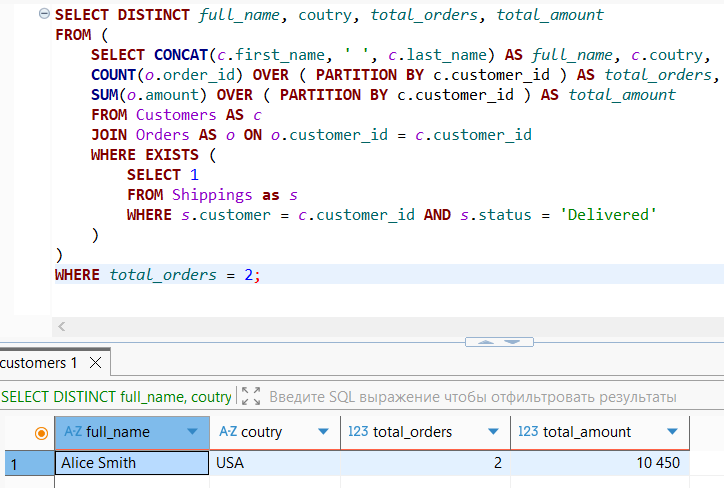
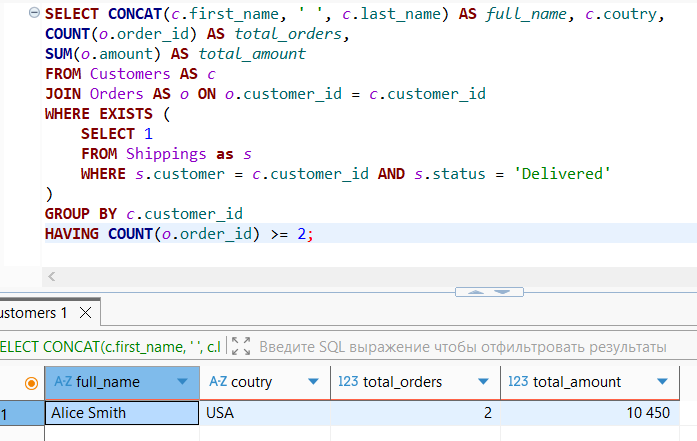
Fix: corrected and simplified the 7th sql query

diff --git a/queries.md b/queries.md
@@ -153,32 +153,20 @@ FROM Orders;
 
 #### Запрос ####
 ```sql
-SELECT DISTINCT full_name, coutry, total_orders, total_amount
-FROM (
-    SELECT CONCAT(c.first_name, ' ', c.last_name) AS full_name, c.coutry,
-    COUNT(o.order_id) OVER ( PARTITION BY c.customer_id ) AS total_orders,
-    SUM(o.amount) OVER ( PARTITION BY c.customer_id ) AS total_amount
-    FROM Customers AS c
-    JOIN Orders AS o ON o.customer_id = c.customer_id
-    WHERE EXISTS (
-        SELECT 1
-        FROM Shippings as s
-        WHERE s.customer = c.customer_id AND s.status = 'Delivered'
-    )
+SELECT CONCAT(c.first_name, ' ', c.last_name) AS full_name, c.coutry,
+COUNT(o.order_id) AS total_orders,
+SUM(o.amount) AS total_amount
+FROM Customers AS c
+JOIN Orders AS o ON o.customer_id = c.customer_id
+WHERE EXISTS (
+    SELECT 1
+    FROM Shippings as s
+    WHERE s.customer = c.customer_id AND s.status = 'Delivered'
 )
-WHERE total_orders = 2;
+GROUP BY c.customer_id 
+HAVING total_orders >= 2;
 ```
 
-#### Пояснения ####
-1\. Условия
-
-Поскольку у нас есть условие по полю, полученному через aggregate function (`total_orders`), к которому мы не можем обратиться обычным способом (такое поле отсутствует в таблице, взятой из FROM), то обернем полученную через SELECT таблицу как subquery, которую возьмем через FROM (теперь у нас есть доступ к этому полю).
-
-Для второго условия нам потребуется взять отдельную таблицу из Shippings и проверить вхождение данных из исходного subquery через *EXISTS*.
-
-2\. Поле `full_name` получим при помощи склеивания строк (concatenate) *first_name* и *last_name* (между ними дополнительно добавим строку с пробелом) через соответствующую функцию *CONCAT*, принимающую в качестве аргументов эти строки.
-
-3\. Поскольку в результате получаем дублирование строк, то исключим повторения из основного запроса через *DISTINCT*.
 
 #### Скриншот ####
 ![image](/images/p7.png)
